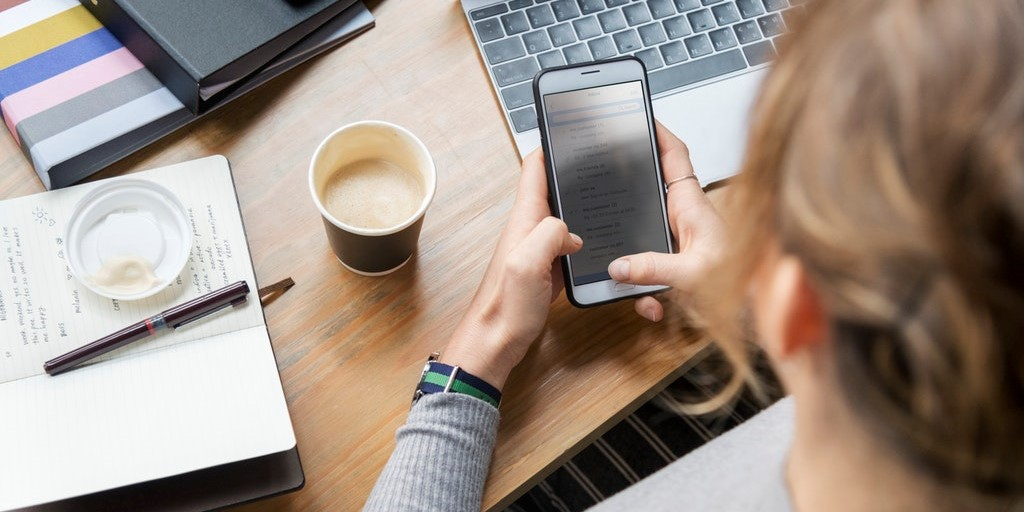
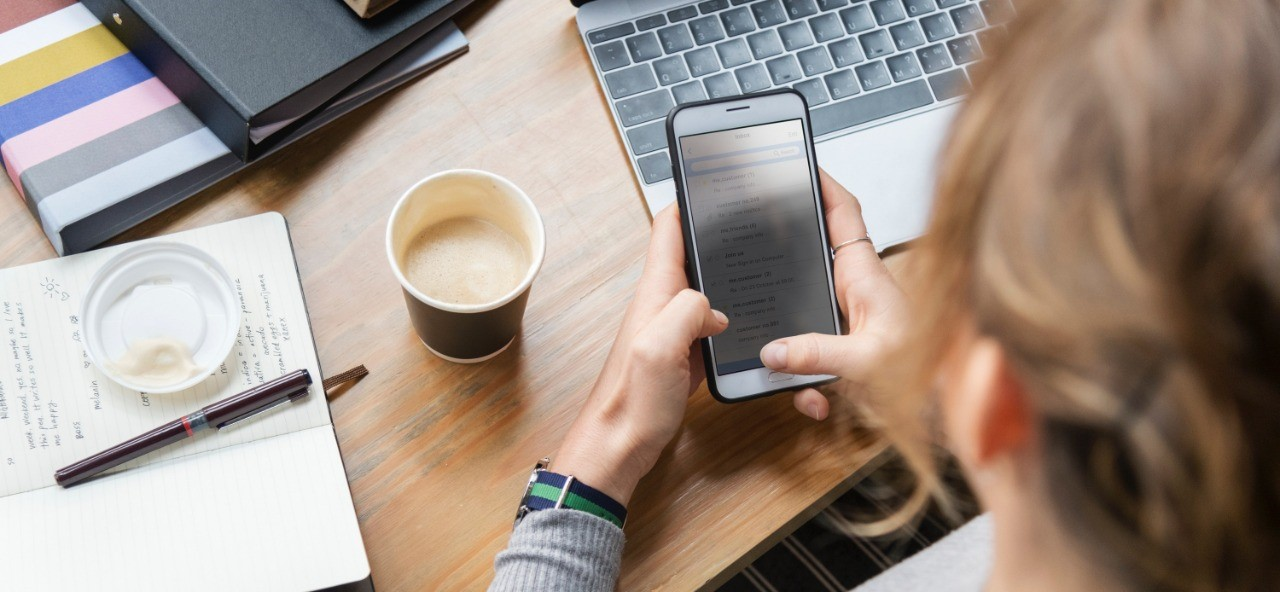
support pics

diff --git a/support/support.css b/support/support.css
@@ -5,12 +5,11 @@
 .support_logo{
     width: 100%;
     height: 400px;
-    background: url("/img/support/tech_1.jpeg");
+    background: url("/img/support/tech_1.jpg");
     background-size: cover;
     background-repeat: no-repeat;
     background-position:right;
     background-attachment: fixed;
-    filter: brightness(50%);
     display: flex;
 }
 .sup_logo_info{
@@ -19,7 +18,7 @@
 .sup_logo_text{
     font-size: 65px;
     font-weight: 500;
-    color: #000;
+    color: #fff;
 }
 .support_container{
     padding-top: 110px;
